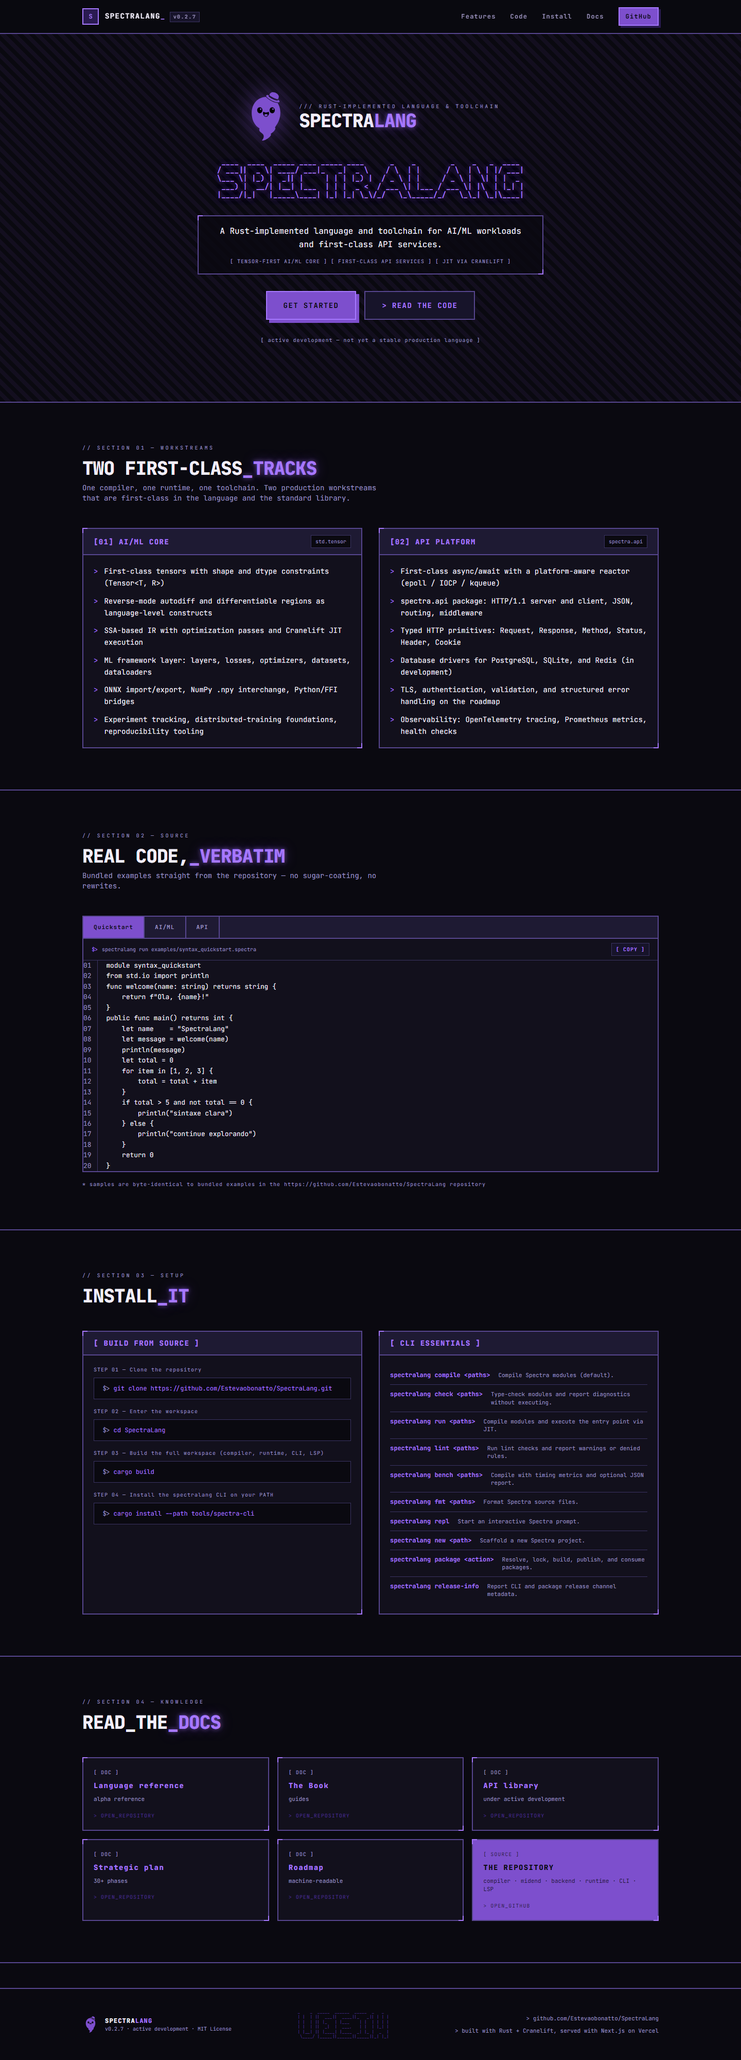
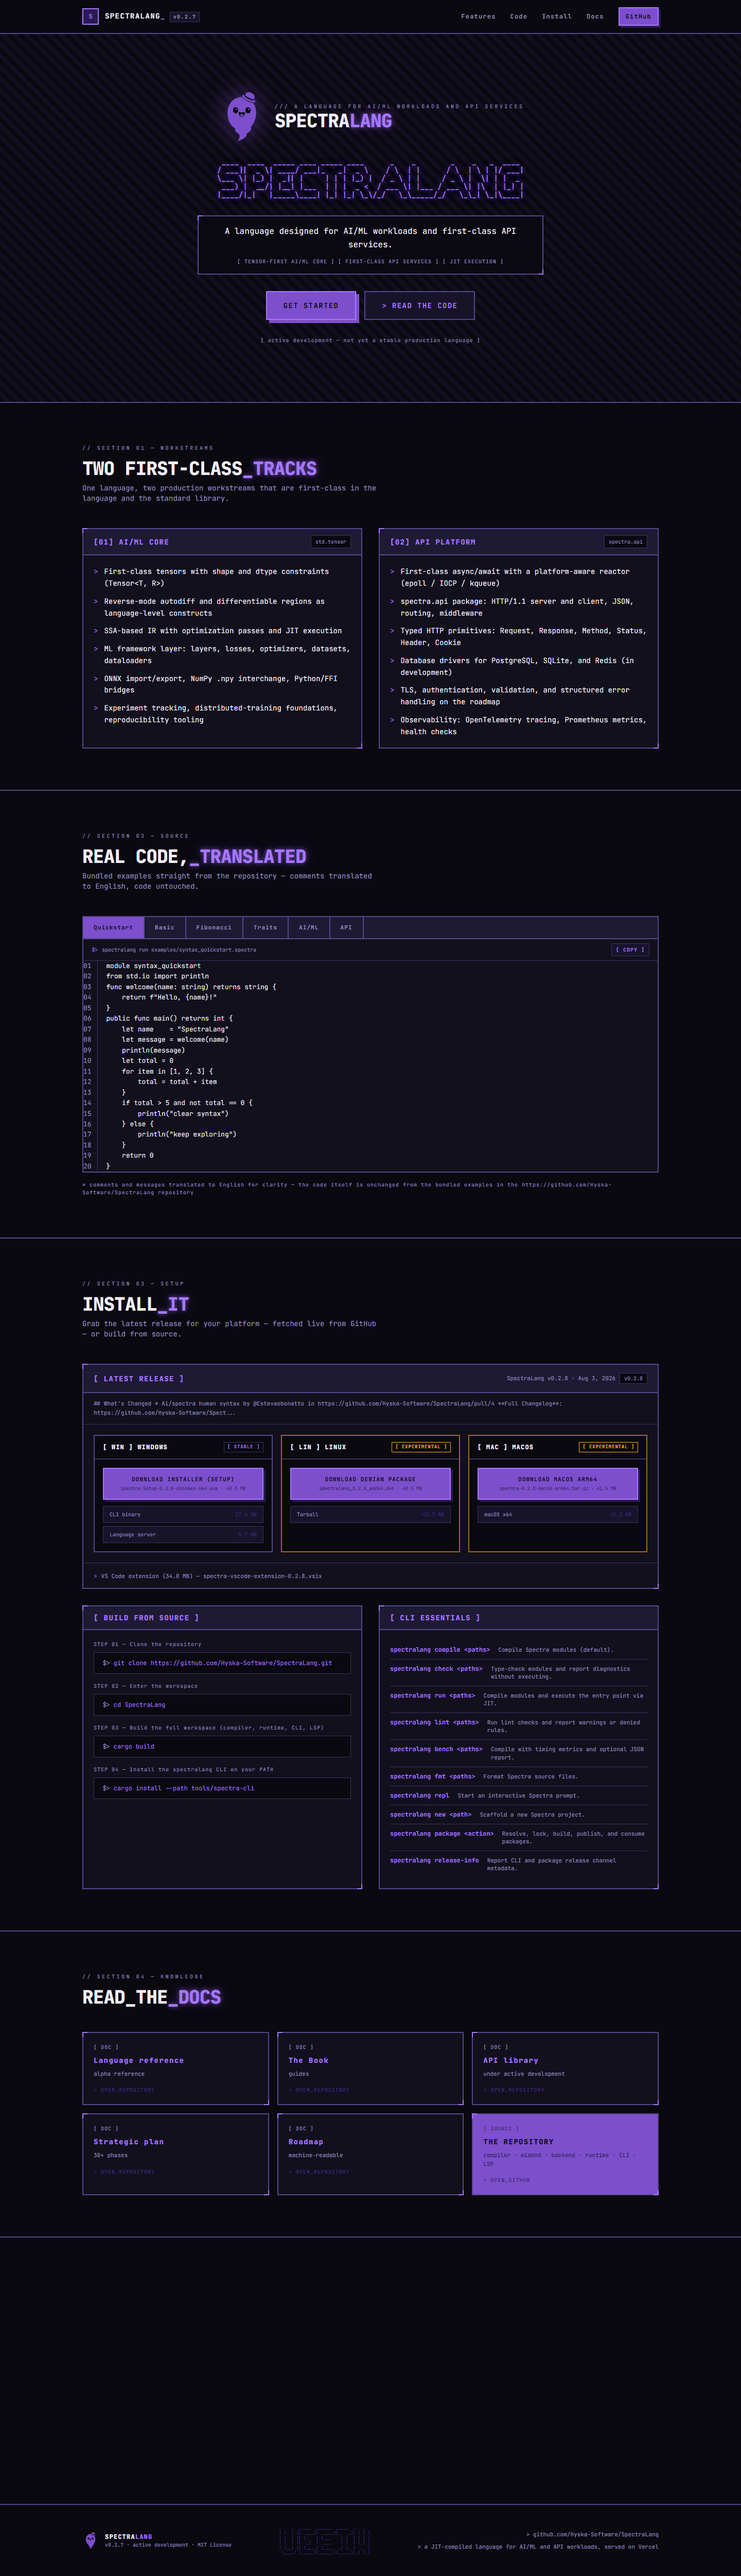
feat: live GitHub release downloads in Install section with experimental badges for linux/macos

diff --git a/components/ReleaseDownload.tsx b/components/ReleaseDownload.tsx
@@ -1,0 +1,277 @@
+"use client";
+
+import { useEffect, useState } from "react";
+import { site } from "@/lib/site";
+
+type Asset = {
+  name: string;
+  size: number;
+  browser_download_url: string;
+};
+
+type Release = {
+  tag_name: string;
+  name: string;
+  published_at: string;
+  body: string | null;
+  assets: Asset[];
+};
+
+type Platform = "windows" | "linux" | "macos" | "extras";
+type Kind = "installer" | "cli" | "lsp" | "deb" | "tar" | "arm64" | "x64" | "vscode" | "pkg";
+
+function classify(name: string): { platform: Platform; kind: Kind } | null {
+  if (/\.vsix$/i.test(name)) return { platform: "extras", kind: "vscode" };
+  if (/windows|\.exe$/i.test(name)) {
+    if (/setup/i.test(name)) return { platform: "windows", kind: "installer" };
+    if (/lsp/i.test(name)) return { platform: "windows", kind: "lsp" };
+    return { platform: "windows", kind: "cli" };
+  }
+  if (/macos/i.test(name)) {
+    if (/arm64/i.test(name)) return { platform: "macos", kind: "arm64" };
+    if (/x64|amd64/i.test(name)) return { platform: "macos", kind: "x64" };
+    return { platform: "macos", kind: "pkg" };
+  }
+  if (/linux/i.test(name) || /\.deb$/i.test(name)) {
+    if (/\.deb$/i.test(name)) return { platform: "linux", kind: "deb" };
+    if (/lsp/i.test(name)) return { platform: "linux", kind: "lsp" };
+    if (/^spectralang$/.test(name)) return { platform: "linux", kind: "cli" };
+    return { platform: "linux", kind: "tar" };
+  }
+  return null;
+}
+
+const KIND_LABEL: Record<Kind, string> = {
+  installer: "Installer (setup)",
+  cli: "CLI binary",
+  lsp: "Language server",
+  deb: "Debian package",
+  tar: "Tarball",
+  arm64: "macOS ARM64",
+  x64: "macOS x64",
+  vscode: "VS Code extension",
+  pkg: "Package",
+};
+
+const PLATFORM_CARDS: {
+  platform: Platform;
+  title: string;
+  tag: string;
+  experimental?: boolean;
+  primary: Kind[];
+  secondary: Kind[];
+}[] = [
+  {
+    platform: "windows",
+    title: "WINDOWS",
+    tag: "[ WIN ]",
+    primary: ["installer"],
+    secondary: ["cli", "lsp"],
+  },
+  {
+    platform: "linux",
+    title: "LINUX",
+    tag: "[ LIN ]",
+    experimental: true,
+    primary: ["deb"],
+    secondary: ["tar", "cli", "lsp"],
+  },
+  {
+    platform: "macos",
+    title: "MACOS",
+    tag: "[ MAC ]",
+    experimental: true,
+    primary: ["arm64"],
+    secondary: ["x64"],
+  },
+];
+
+function formatSize(bytes: number): string {
+  if (bytes >= 1024 * 1024) return `${(bytes / (1024 * 1024)).toFixed(1)} MB`;
+  return `${(bytes / 1024).toFixed(0)} KB`;
+}
+
+export function ReleaseDownload() {
+  const [release, setRelease] = useState<Release | null>(null);
+  const [state, setState] = useState<"loading" | "ok" | "error">("loading");
+
+  useEffect(() => {
+    let cancelled = false;
+    fetch(`https://api.github.com/repos/Hyska-Software/SpectraLang/releases/latest`, {
+      headers: { Accept: "application/vnd.github+json" },
+      cache: "no-store",
+    })
+      .then((res) => {
+        if (!res.ok) throw new Error(`HTTP ${res.status}`);
+        return res.json();
+      })
+      .then((data: Release) => {
+        if (cancelled) return;
+        setRelease(data);
+        setState("ok");
+      })
+      .catch(() => {
+        if (cancelled) return;
+        setState("error");
+      });
+    return () => {
+      cancelled = true;
+    };
+  }, []);
+
+  type Picked = Asset & { kind: Kind };
+
+  const pick = (platform: Platform, kinds: Kind[]): Picked[] =>
+    kinds
+      .map((kind) => {
+        const asset = release?.assets.find((a) => {
+          const c = classify(a.name);
+          return c?.platform === platform && c.kind === kind;
+        });
+        return asset ? { ...asset, kind } : null;
+      })
+      .filter((a): a is Picked => a !== null);
+
+  if (state === "loading") {
+    return (
+      <div className="ascii-box bg-bg-soft p-5">
+        <p className="text-xs tracking-widest text-purple-bright glow-purple-soft">
+          [ FETCHING LATEST RELEASE FROM GITHUB ... ]
+        </p>
+      </div>
+    );
+  }
+
+  if (state === "error" || !release) {
+    return (
+      <div className="ascii-box bg-bg-soft p-5">
+        <p className="text-xs tracking-widest text-muted">
+          [ UNABLE TO REACH THE GITHUB RELEASES API ]
+        </p>
+        <a
+          href={`${site.repo}/releases`}
+          target="_blank"
+          rel="noopener noreferrer"
+          className="mt-3 inline-block border-2 border-purple-bright bg-purple px-4 py-2 text-xs font-bold tracking-widest text-bg transition-transform hover:-translate-y-0.5 hover:bg-purple-bright"
+        >
+          &gt; OPEN RELEASES PAGE
+        </a>
+      </div>
+    );
+  }
+
+  const date = new Date(release.published_at).toLocaleDateString("en-US", {
+    year: "numeric",
+    month: "short",
+    day: "numeric",
+  });
+
+  const bodyExcerpt = release.body ? release.body.slice(0, 180) : "";
+
+  return (
+    <div className="ascii-box bg-bg-soft">
+      <header className="flex flex-col gap-2 border-b-2 border-border-strong bg-surface-2 px-5 py-4 sm:flex-row sm:items-center sm:justify-between">
+        <h3 className="text-sm font-black tracking-widest text-purple-bright">
+          [ LATEST RELEASE ]
+        </h3>
+        <div className="text-[11px] text-muted">
+          {release.name} <span className="text-purple-bright">·</span> {date}
+          <span className="ml-2 inline-block border border-border bg-bg px-2 py-0.5 text-[10px]">
+            {release.tag_name}
+          </span>
+        </div>
+      </header>
+
+      {bodyExcerpt ? (
+        <p className="border-b border-border px-5 py-3 text-[11px] leading-relaxed text-muted">
+          {bodyExcerpt}
+          {release.body && release.body.length > 180 ? "..." : ""}
+        </p>
+      ) : null}
+
+      <div className="grid gap-4 p-5 md:grid-cols-3">
+        {PLATFORM_CARDS.map((card) => {
+          const primary = pick(card.platform, card.primary);
+          const secondary = pick(card.platform, card.secondary);
+          const primaryAsset = primary[0];
+          return (
+            <div
+              key={card.platform}
+              className={`flex flex-col border-2 ${
+                card.experimental ? "border-warn/60" : "border-border-strong"
+              } bg-bg`}
+            >
+              <header className="flex items-center justify-between border-b-2 border-border px-4 py-3">
+                <h4 className="text-xs font-black tracking-widest text-text">
+                  {card.tag} {card.title}
+                </h4>
+                {card.experimental ? (
+                  <span className="border border-warn px-1.5 py-0.5 text-[9px] font-bold tracking-widest text-warn">
+                    [ EXPERIMENTAL ]
+                  </span>
+                ) : (
+                  <span className="border border-border px-1.5 py-0.5 text-[9px] font-bold tracking-widest text-purple-bright">
+                    [ STABLE ]
+                  </span>
+                )}
+              </header>
+              <div className="flex flex-1 flex-col gap-3 p-4">
+                {primaryAsset ? (
+                  <a
+                    href={primaryAsset.browser_download_url}
+                    target="_blank"
+                    rel="noopener noreferrer"
+                    className="border-2 border-purple-bright bg-purple px-4 py-3 text-center text-[11px] font-bold tracking-widest text-bg shadow-hard-sm transition-transform hover:-translate-y-0.5 hover:bg-purple-bright"
+                  >
+                    DOWNLOAD {KIND_LABEL[primaryAsset.kind].toUpperCase()}
+                    <span className="mt-1 block text-[9px] font-normal tracking-normal text-bg/75">
+                      {primaryAsset.name} · {formatSize(primaryAsset.size)}
+                    </span>
+                  </a>
+                ) : (
+                  <p className="border-2 border-dashed border-border px-4 py-3 text-center text-[10px] text-muted">
+                    NO {card.title} ASSET IN THIS RELEASE
+                  </p>
+                )}
+                {secondary.length > 0 ? (
+                  <ul className="flex flex-col gap-1.5">
+                    {secondary.map((a) => (
+                      <li key={a.name}>
+                        <a
+                          href={a.browser_download_url}
+                          target="_blank"
+                          rel="noopener noreferrer"
+                          className="flex items-center justify-between gap-2 border border-border bg-surface px-3 py-2 text-[10px] text-muted transition-colors hover:border-purple-bright hover:text-purple-bright"
+                        >
+                          <span className="truncate">{KIND_LABEL[a.kind]}</span>
+                          <span className="shrink-0 text-purple-dim">{formatSize(a.size)}</span>
+                        </a>
+                      </li>
+                    ))}
+                  </ul>
+                ) : null}
+              </div>
+            </div>
+          );
+        })}
+      </div>
+
+      {pick("extras", ["vscode"]).length > 0 ? (
+        <footer className="border-t border-border px-5 py-3">
+          {pick("extras", ["vscode"]).map((a) => (
+            <a
+              key={a.name}
+              href={a.browser_download_url}
+              target="_blank"
+              rel="noopener noreferrer"
+              className="inline-flex items-center gap-2 text-[11px] text-muted transition-colors hover:text-purple-bright"
+            >
+              <span className="text-purple-bright">&gt;</span>
+              VS Code extension ({formatSize(a.size)}) — {a.name}
+            </a>
+          ))}
+        </footer>
+      ) : null}
+    </div>
+  );
+}

diff --git a/components/Install.tsx b/components/Install.tsx
@@ -1,4 +1,5 @@
 import { installSteps, cliCommands } from "@/lib/site";
+import { ReleaseDownload } from "@/components/ReleaseDownload";
 
 export function Install() {
   return (
@@ -8,8 +9,16 @@ export function Install() {
         <h2 className="mt-3 text-2xl font-black tracking-tight text-text md:text-4xl">
           INSTALL<span className="text-purple-bright glow-purple">_IT</span>
         </h2>
+        <p className="mt-2 max-w-xl text-sm text-muted">
+          Grab the latest release for your platform — fetched live from GitHub — or build from
+          source.
+        </p>
 
-        <div className="mt-12 grid gap-8 lg:grid-cols-2">
+        <div className="mt-12">
+          <ReleaseDownload />
+        </div>
+
+        <div className="mt-8 grid gap-8 lg:grid-cols-2">
           <div className="ascii-box bg-bg-soft">
             <header className="border-b-2 border-border-strong bg-surface-2 px-5 py-3">
               <h3 className="text-sm font-black tracking-widest text-purple-bright">

diff --git a/app/globals.css b/app/globals.css
@@ -14,6 +14,7 @@
   --purple-bright: #a678ff;
   --purple-dim: #4a2d8f;
   --purple-dark: #2a1b52;
+  --warn: #ffb020;
 }
 
 @theme inline {
@@ -30,6 +31,7 @@
   --color-purple-bright: var(--purple-bright);
   --color-purple-dim: var(--purple-dim);
   --color-purple-dark: var(--purple-dark);
+  --color-warn: var(--warn);
   --font-mono: var(--font-jetbrains-mono);
   --font-sans: var(--font-jetbrains-mono);
 }

diff --git a/docs/goals/spectralang-site/evidence/checklist.md b/docs/goals/spectralang-site/evidence/checklist.md
@@ -40,6 +40,7 @@ Notes:
 - [x] Purple palette values trace to logo SVG fills (`#7d4fcd`, `#7e50ce`) — used as `--purple`/`--purple-2` tokens.
 - [x] External links point to existing repo paths — doc links use README-referenced paths (`docs/language-reference-alpha.md`, `docs/book`, `docs/api`, `docs/production-ai-implementation-plan.md`, `roadmap/roadmap.toml`).
 - [x] Site conveys active-development status per README "Project Status" — hero badge + footer `v0.2.7 / active development`; no production-readiness claims.
+- [x] Install section fetches live from the GitHub latest release (USER REQUEST, 2026-08-03): per-platform download buttons (Windows setup/exe/lsp; Linux deb/tar/binary/lsp; macOS arm64/x64), `[ EXPERIMENTAL ]` badges on Linux and macOS, `[ STABLE ]` on Windows. Static `lib/site.ts` version remains 0.2.7 (Cargo.toml truth); the live section shows the actual release tag v0.2.8.
 
 ## Sample verification note (per PRE review finding #3)
 
@@ -59,6 +60,7 @@ DEPLOYED — production live at https://spectralang.vercel.app (2026-08-03).
 | Status badge | PASS — "[ active development - not yet a stable production language ]" |
 | GitHub repo (site) | https://github.com/hyskasoftware/spectralang-site (branch master) |
 | GitHub repo (language, corrected) | https://github.com/Hyska-Software/SpectraLang (branch main) — all links, clone commands, footer, and doc links point here; zero `Estevaobonatto` references remaining in production HTML |
+| Live release section | PASS — fetches `api.github.com/.../releases/latest` on load; production DOM shows v0.2.8, 2× [ EXPERIMENTAL ] (linux/macos), 1× [ STABLE ] (windows), Windows setup + CLI + LSP, Linux deb + tar + binary, macOS arm64 + x64, VS Code .vsix; loading state resolves; error state falls back to releases page link |
 
 Note: `docs/goals/spectralang-site/PLAN.md` and `GOAL.md` still mention the old `Estevaobonatto` URL in two places; the executable truth lives in `lib/site.ts`, which is corrected. Historical references in planning docs are left as recorded evidence of the correction.
 
